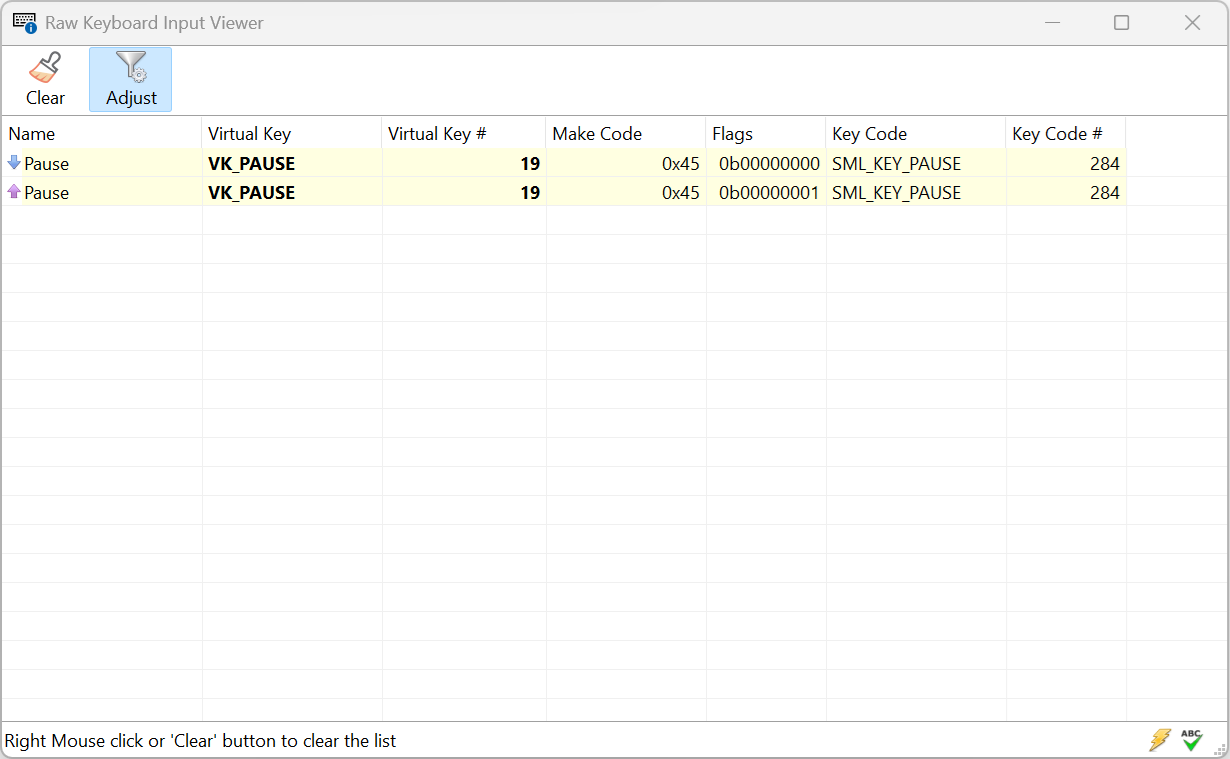
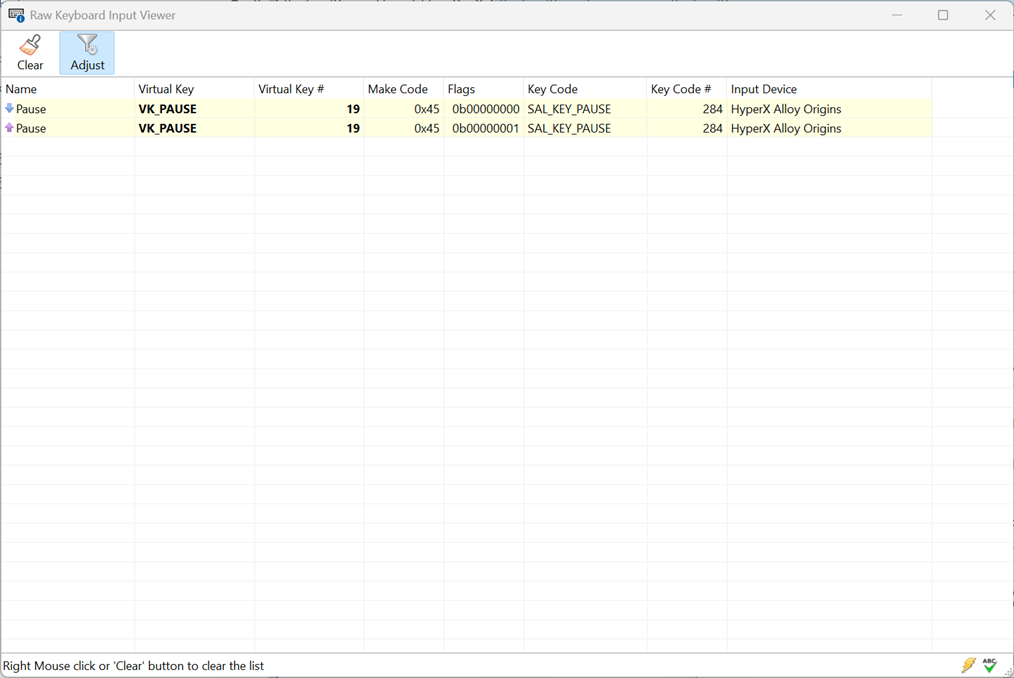
Add input device column

diff --git a/src/RawInputViewer.cpp b/src/RawInputViewer.cpp
@@ -12,6 +12,7 @@
 
 #include "RawInputViewer.hpp"
 #include "resource.h"
+#include <hidsdi.h>
 #include <iterator>
 #include <limits>
 #include <map>
@@ -158,6 +159,126 @@ private:
         return windowPlacement;
     }
 
+    [[nodiscard]] static std::wstring queryHidProductString(const wchar_t* interfacePath) noexcept
+    {
+        const HANDLE handle = CreateFileW(interfacePath, 0, FILE_SHARE_READ | FILE_SHARE_WRITE, nullptr, OPEN_EXISTING, 0, nullptr);
+        if (handle == INVALID_HANDLE_VALUE)
+        {
+            return {};
+        }
+
+        wchar_t product[128]{};
+        const BOOLEAN succeeded = HidD_GetProductString(handle, product, sizeof(product));
+        CloseHandle(handle);
+
+        if (!succeeded)
+        {
+            return {};
+        }
+
+        std::wstring_view view(product, wcsnlen(product, std::size(product)));
+        while (!view.empty() && isWhitespace(view.back()))
+        {
+            view.remove_suffix(1);
+        }
+
+        return std::wstring(view);
+    }
+
+    [[nodiscard]] static std::wstring shortenInterfacePath(std::wstring_view path) noexcept
+    {
+        if (path.starts_with(LR"(\\?\)"))
+        {
+            path.remove_prefix(4);
+        }
+
+        const size_t firstHash = path.find(L'#');
+        if (firstHash != std::wstring_view::npos)
+        {
+            const size_t secondHash = path.find(L'#', firstHash + 1);
+            if (secondHash != std::wstring_view::npos)
+            {
+                path = path.substr(0, secondHash);
+            }
+        }
+
+        std::wstring shortened(path);
+        std::ranges::replace(shortened, L'#', L'\\');
+        return shortened;
+    }
+
+    [[nodiscard]] static std::wstring queryDevicePath(HANDLE hDevice)
+    {
+        UINT size = 0;
+        if (GetRawInputDeviceInfoW(hDevice, RIDI_DEVICENAME, nullptr, &size) != 0 || size == 0)
+        {
+            return {};
+        }
+
+        TempBuffer<wchar_t, MAX_PATH> path(size + 1);
+        path.data()[size] = L'\0';
+        if (GetRawInputDeviceInfoW(hDevice, RIDI_DEVICENAME, path.data(), &size) == static_cast<UINT>(-1))
+        {
+            return {};
+        }
+
+        return std::wstring(path.data());
+    }
+
+    [[nodiscard]] std::wstring deviceNameForPath(const std::wstring& path) const
+    {
+        std::wstring product = queryHidProductString(path.c_str());
+        if (!product.empty())
+        {
+            return product;
+        }
+
+        std::wstring shortened = shortenInterfacePath(path);
+        return shortened.empty() ? unknownDeviceName_ : shortened;
+    }
+
+    uint32_t deviceIndexFor(HANDLE hDevice)
+    {
+        if (hDevice == nullptr)
+        {
+            return injectedDeviceIndex;
+        }
+
+        if (const auto it = deviceIndices_.find(hDevice); it != std::end(deviceIndices_))
+        {
+            return it->second;
+        }
+
+        const std::wstring path = queryDevicePath(hDevice);
+        if (path.empty())
+        {
+            return overflowDeviceIndex;
+        }
+
+        if (const auto it = devicePathIndices_.find(path); it != std::end(devicePathIndices_))
+        {
+            deviceIndices_.emplace(hDevice, it->second);
+            return it->second;
+        }
+
+        if (deviceNames_.size() >= overflowDeviceIndex)
+        {
+            return overflowDeviceIndex;
+        }
+
+        const uint32_t index = static_cast<uint32_t>(deviceNames_.size());
+        deviceNames_.push_back(deviceNameForPath(path));
+        devicePathIndices_.emplace(path, index);
+        deviceIndices_.emplace(hDevice, index);
+        return index;
+    }
+
+    [[nodiscard]] const std::wstring& deviceNameFor(const RawKeyboard& rawKbd) const noexcept
+    {
+        const uint32_t index = rawKbd.getDeviceIndex();
+        return index < deviceNames_.size() ? deviceNames_[index] : otherDeviceName_;
+    }
+
     auto lookupVirtualKey(const RawKeyboard& rawKbd) const noexcept
     {
         auto it = vkeyMapping_.find(rawKbd.VKey);
@@ -276,6 +397,10 @@ private:
                 const int keyCode = lookupKeyCode(rawKbd)->second.keyCode;
                 return formatTo(keyCode, item, listView_.getDisplayFormat(item.iSubItem), keyCode > 0 ? 1 : 2);
             }
+            case 7:
+            {
+                return formatTo(deviceNameFor(rawKbd).c_str(), item, listView_.getDisplayFormat(item.iSubItem));
+            }
         }
 
         return std::nullopt; // Let DefWindowProcW() deal with unhandled messages
@@ -359,6 +484,7 @@ private:
             case RIM_TYPEKEYBOARD:
             {
                 RawKeyboard rawKbd(raw->data.keyboard);
+                rawKbd.setDeviceIndex(deviceIndexFor(raw->header.hDevice));
 
                 if (!toolBar_.isAdjustmentChecked() || adjustKeyboardInput(rawKbd))
                 {
@@ -382,6 +508,27 @@ private:
         // satisfying this requirement. For RIM_INPUTSINK (1), return 0 as processed.
         const int inputCode = GET_RAWINPUT_CODE_WPARAM(wParam);
         return inputCode == RIM_INPUT ? std::nullopt : std::optional<LRESULT>(0);
+    }
+
+    [[nodiscard]] std::optional<LRESULT> onInputDeviceChange(HWND, UINT, WPARAM wParam, LPARAM lParam)
+    {
+        const HANDLE hDevice = reinterpret_cast<HANDLE>(lParam);
+
+        switch (wParam)
+        {
+            case GIDC_ARRIVAL:
+            {
+                deviceIndexFor(hDevice);
+                break;
+            }
+            case GIDC_REMOVAL:
+            {
+                deviceIndices_.erase(hDevice);
+                break;
+            }
+        }
+
+        return 0;
     }
 
     [[nodiscard]] std::optional<LRESULT> onSize(HWND, UINT, WPARAM, LPARAM)
@@ -510,6 +657,10 @@ private:
             case WM_INPUT:
             {
                 return onInput(hwnd, msg, wParam, lParam);
+            }
+            case WM_INPUT_DEVICE_CHANGE:
+            {
+                return onInputDeviceChange(hwnd, msg, wParam, lParam);
             }
             case WM_COMMAND:
             {
@@ -1236,7 +1387,8 @@ private:
 
     bool registerRawInputDevice() noexcept
     {
-        DWORD flags = statusBar_.isNoHotkeysChecked() ? 0 : RIDEV_NOHOTKEYS;
+        DWORD flags = RIDEV_DEVNOTIFY;
+        flags |= statusBar_.isNoHotkeysChecked() ? 0 : RIDEV_NOHOTKEYS;
         flags |= statusBar_.isNoLegacyChecked() ? 0 : RIDEV_NOLEGACY;
         return registerRawInputDevice(flags);
     }
@@ -1246,6 +1398,11 @@ private:
     StatusBar statusBar_;
     const HINSTANCE hinstance_;
     const std::wstring registryKeyPath_;
+    const std::wstring otherDeviceName_;
+    const std::wstring unknownDeviceName_;
+    std::vector<std::wstring> deviceNames_;
+    std::map<HANDLE, uint32_t> deviceIndices_;
+    std::map<std::wstring, uint32_t> devicePathIndices_;
     std::map<USHORT, KeyCodes> scanCodeMapping_;
     ScanCodeSequence pendingSequence_{ScanCodeSequence::None};
     std::map<USHORT, std::pair<std::wstring, std::wstring>> vkeyMapping_;
@@ -1260,6 +1417,9 @@ public:
         , statusBar_{hinstance}
         , hinstance_{hinstance}
         , registryKeyPath_{constructRegistryKeyPath(hinstance)}
+        , otherDeviceName_{StringResource<32>(hinstance, IDS_DEVICE_OTHER).view()}
+        , unknownDeviceName_{StringResource<32>(hinstance, IDS_DEVICE_UNKNOWN).view()}
+        , deviceNames_{std::wstring{StringResource<32>(hinstance, IDS_DEVICE_INJECTED).view()}}
     {
         INITCOMMONCONTROLSEX icex = {sizeof(INITCOMMONCONTROLSEX), ICC_LISTVIEW_CLASSES | ICC_BAR_CLASSES};
         if (!InitCommonControlsEx(&icex))

diff --git a/src/RawInputViewer.hpp b/src/RawInputViewer.hpp
@@ -840,8 +840,13 @@ enum class AdjustmentFlags : uint32_t
 {
     MakeCodeMapped = 0b0000'0001,
     VirtualKeyAdjusted = 0b0000'0010,
+    DeviceIndexMask = 0b0111'1100,
     ExtendedLookup = 0b1000'0000
 };
+
+inline constexpr uint32_t deviceIndexShift = 2;
+inline constexpr uint32_t injectedDeviceIndex = 0;
+inline constexpr uint32_t overflowDeviceIndex = 31;
 
 constexpr bool enableBitmaskOperatorOr(AdjustmentFlags);
 constexpr AdjustmentFlags enableBitmaskOperatorOrAssign(AdjustmentFlags);
@@ -877,6 +882,19 @@ public:
     [[nodiscard]] USHORT getLookupCode() const noexcept
     {
         return static_cast<USHORT>(MakeCode | ((adjustments & AdjustmentFlags::ExtendedLookup) != AdjustmentFlags{0} ? 0x100 : 0));
+    }
+
+    void setDeviceIndex(uint32_t index) noexcept
+    {
+        const uint32_t clamped = index > overflowDeviceIndex ? overflowDeviceIndex : index;
+        const uint32_t mask = std::to_underlying(AdjustmentFlags::DeviceIndexMask);
+        const uint32_t bits = (std::to_underlying(adjustments) & ~mask) | ((clamped << deviceIndexShift) & mask);
+        adjustments = static_cast<AdjustmentFlags>(bits);
+    }
+
+    [[nodiscard]] uint32_t getDeviceIndex() const noexcept
+    {
+        return (std::to_underlying(adjustments) & std::to_underlying(AdjustmentFlags::DeviceIndexMask)) >> deviceIndexShift;
     }
 
     AdjustmentFlags adjustments;

diff --git a/src/res/resource.h b/src/res/resource.h
@@ -23,6 +23,9 @@
 #define IDS_TOOLTIP_NOHOTKEYS           1009
 #define ID_NOLEGACY                     1010
 #define IDS_TOOLTIP_NOLEGACY            1011
+#define IDS_DEVICE_INJECTED             1012
+#define IDS_DEVICE_OTHER                1013
+#define IDS_DEVICE_UNKNOWN              1014
 #define IDR_POPUP_MENU_DEC_OR_HEX       1100
 #define IDC_POPUP_DEC                   1101
 #define IDC_POPUP_HEX                   1102
